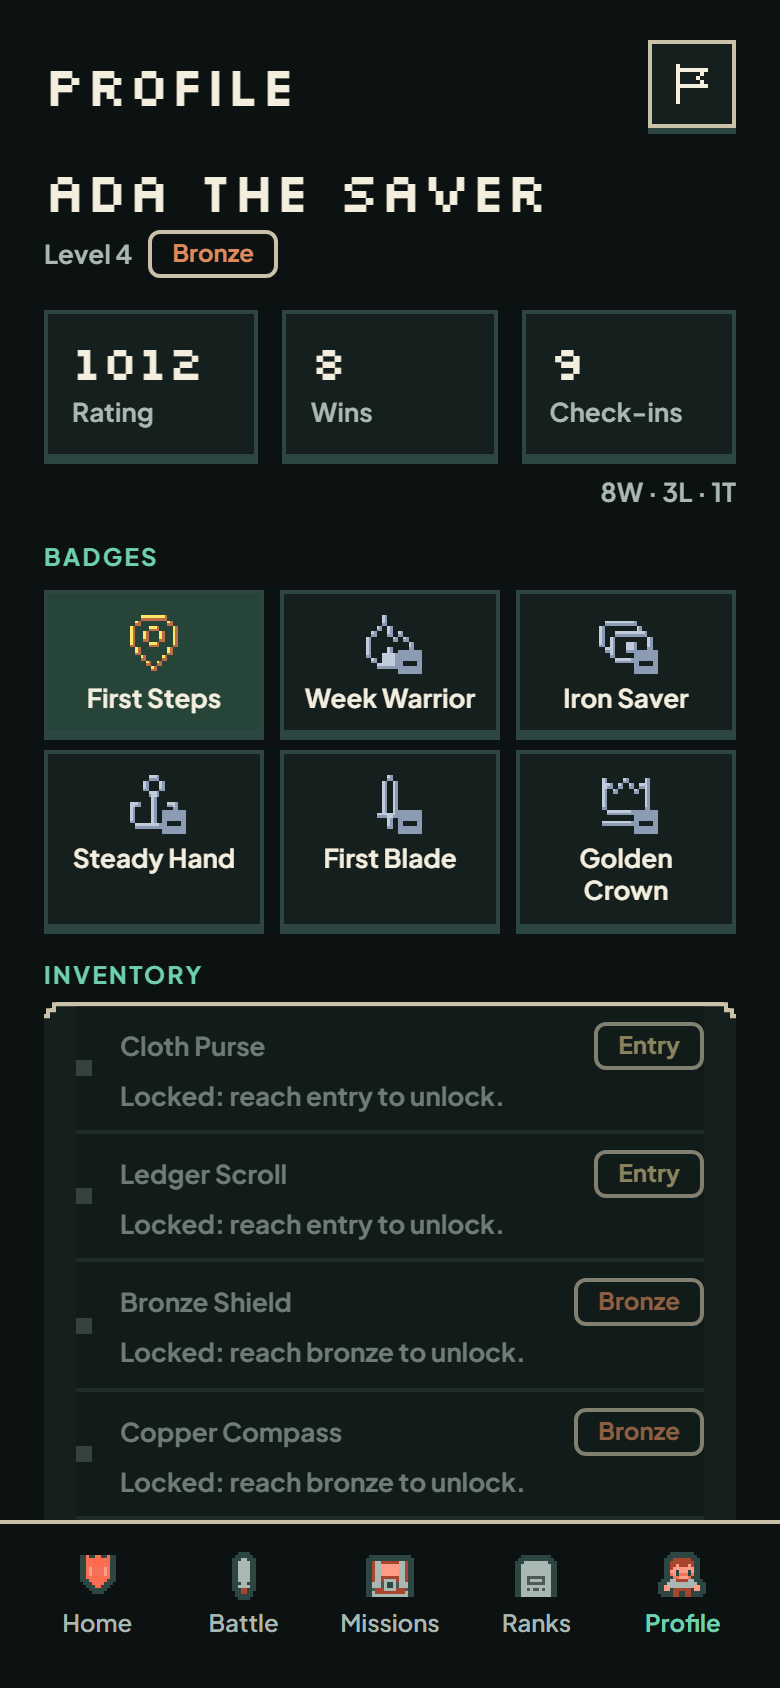
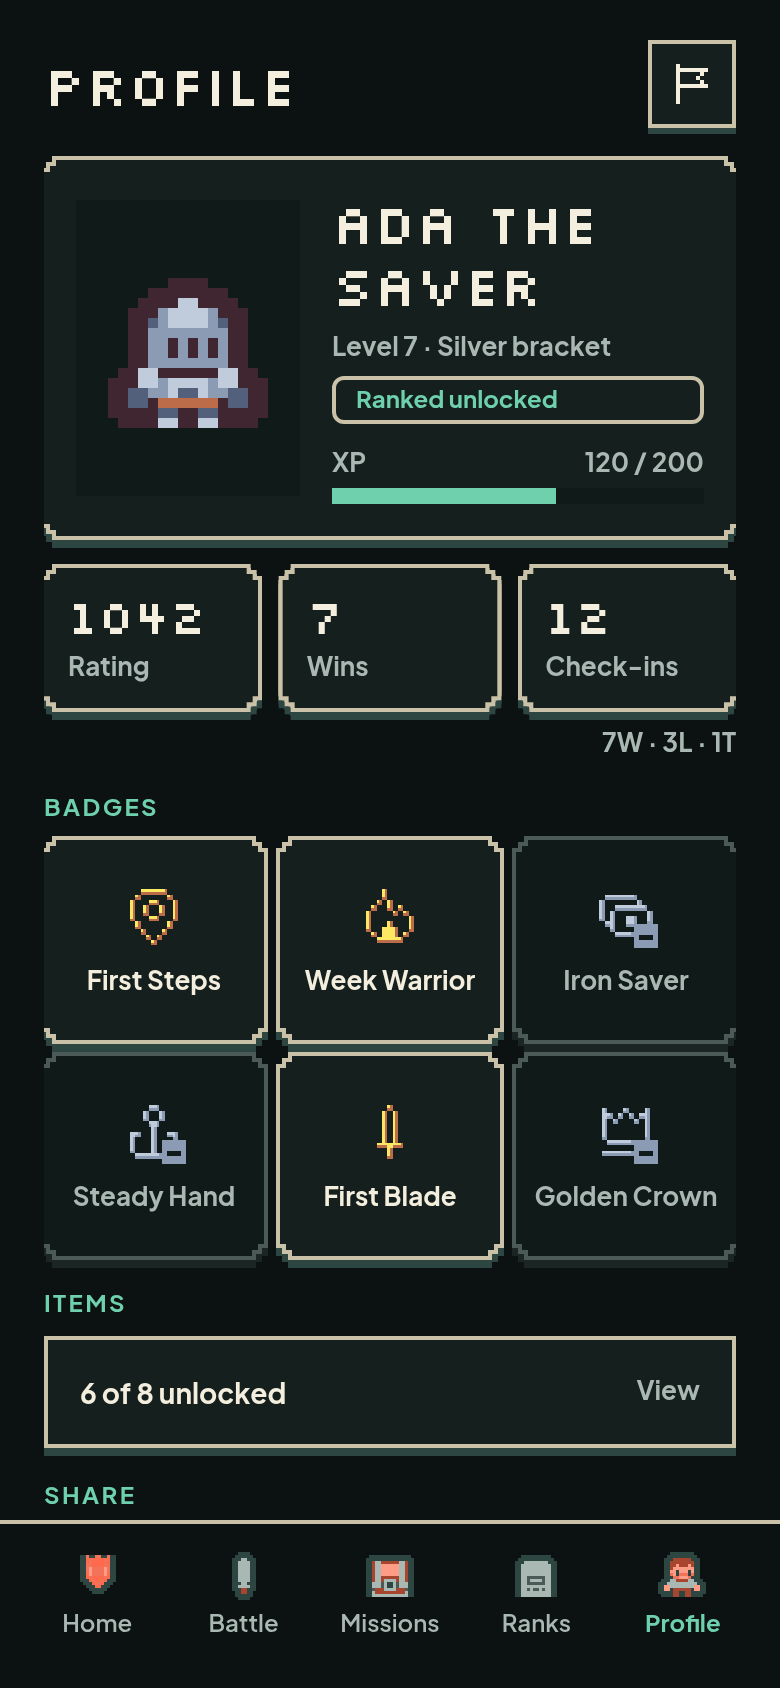
chore: economy remainder renders and verification

diff --git a/docs/superpowers/renders/economy/review/index.html b/docs/superpowers/renders/economy/review/index.html
@@ -55,6 +55,36 @@
 </section>
 
 <section class="screen">
+  <h2>Items</h2>
+  <p class="route">/items — all eight items, locked and unlocked</p>
+  <div class="strip">
+    <figure><figcaption>360</figcaption><img src="current/items@360.png" alt="Items at 360px"></figure>
+    <figure><figcaption>390</figcaption><img src="current/items@390.png" alt="Items at 390px"></figure>
+    <figure><figcaption>430</figcaption><img src="current/items@430.png" alt="Items at 430px"></figure>
+  </div>
+</section>
+
+<section class="screen">
+  <h2>Bracket Climb</h2>
+  <p class="route">/bracket-climb — shown after a check-in crosses a threshold</p>
+  <div class="strip">
+    <figure><figcaption>360</figcaption><img src="current/bracket-climb@360.png" alt="Bracket Climb at 360px"></figure>
+    <figure><figcaption>390</figcaption><img src="current/bracket-climb@390.png" alt="Bracket Climb at 390px"></figure>
+    <figure><figcaption>430</figcaption><img src="current/bracket-climb@430.png" alt="Bracket Climb at 430px"></figure>
+  </div>
+</section>
+
+<section class="screen">
+  <h2>Balance dropped</h2>
+  <p class="route">/withdrawal — shown when a check-in reads lower than the last</p>
+  <div class="strip">
+    <figure><figcaption>360</figcaption><img src="current/withdrawal@360.png" alt="Balance dropped at 360px"></figure>
+    <figure><figcaption>390</figcaption><img src="current/withdrawal@390.png" alt="Balance dropped at 390px"></figure>
+    <figure><figcaption>430</figcaption><img src="current/withdrawal@430.png" alt="Balance dropped at 430px"></figure>
+  </div>
+</section>
+
+<section class="screen">
   <h2>Settings</h2>
   <p class="route">/settings — pushed screen, no bottom nav</p>
   <div class="strip">

diff --git a/docs/superpowers/audits/2026-11-05-ui-gap-audit.md b/docs/superpowers/audits/2026-11-05-ui-gap-audit.md
@@ -520,3 +520,53 @@ The reveal and quiz states were not target-audited: the headless fixture cannot 
 ### Remaining step
 
 The emulated sweep is the agent's evidence. The real-device pass in Nimiq Pay at 360–430px is the user's final sign-off step.
+
+---
+
+## 11. Economy remainder — 2026-11-09
+
+**Branch:** `feat/economy-settings` (continued; stacked on the Settings slice).
+**Verdict:** the Economy remainder is implemented. Items, Bracket Climb and Balance dropped now exist as screens, and Profile is rebuilt around the character card.
+
+### What landed
+
+- **`/items`**: a pushed screen with the handoff's 2-column grid of all eight items, a `6 of 8 unlocked` chip, 16×16 item art at 48px, per-item bracket and state line, and the "Still yours" footer. Item art comes from `assets/items.json` through `ItemArt`; `ledger_scroll` uses the `Ledger Tome` drawing because the app kept its original item name.
+- **`/bracket-climb`**: a celebration screen with the bracket label, the threshold, `+50 XP` when the Bracket Climb mission actually awarded, the unlocked items, and `See my items`.
+- **`/withdrawal`**: the neutral "Your balance went down" screen with last/now balances, a mint "Still yours" card and a coral "Removed" card listing the badges actually revoked.
+- **Profile**: the identity strip is now a character card using the Hero sprite for the current bracket, the level/bracket line, a `Ranked unlocked` chip when eligible, and an XP bar. Stats and badges use stepped `PixelPanel`s, the full inventory list is gone, and an Items shortcut replaces it.
+- **Trigger**: Home routes a check-in with `checkInDestination`. A withdrawal wins over a bracket change; a bracket change below the entry floor goes Home. The result crosses the navigation in a one-shot `sessionStorage` handoff (`checkin-handoff.ts`) with a module cache so React StrictMode's double mount cannot lose it.
+- **Art components**: `CharacterArt` (Hero · Entry/Bronze/Silver/Gold) and `ItemArt` (eight items) render the shipped 16×16 paths at whole multiples.
+- **Focus fix**: a scrollable `.sv-shell__body` is focusable in Chrome; it now shows the 2px mint outline instead of the UA auto ring. This is why `/items` has a scroll-container focus stop at 360/390.
+
+### Verification evidence
+
+| Check | Result |
+|---|---|
+| `npm test` | 217 pass, 0 fail |
+| `npx tsc --noEmit` | clean |
+| `npm run lint` | exit 0, 48 warnings, 0 errors (four new `set-state-in-effect` warnings follow the existing session-read pattern) |
+| `npm run build` | exit 0 |
+| `text-[10px]` / `text-[11px]` | none in `src/**/*.tsx` |
+| Audit 360/390/430 | Profile, Items, Bracket Climb, Withdrawal: `overflowX: 0`, no wide elements, no target <44×44, min font 12px (13px on the celebration screens), reading-order focus, mint outline, no covered stops |
+
+### 360px behaviour
+
+- **Profile:** the 12-character fixture name wraps to two lines inside the character card; the card grows, nothing is truncated.
+- **Items:** two columns hold all eight cards; the `6 of 8 unlocked` chip stays on the header line.
+- **Bracket Climb:** "Bracket Climb" wraps to two lines and `3 NIM` stays on one line (non-breaking space).
+- **Balance dropped:** the title wraps to two lines; the balance row keeps both values and the NIM labels.
+
+### Renders
+
+12 new PNGs in `docs/superpowers/renders/economy/after/` (Profile, Items, Bracket Climb, Withdrawal at 360/390/430), mirrored into `docs/superpowers/renders/economy/review/current/` with new sections in `index.html`. The review copy now covers the whole Economy batch.
+
+### Rulings
+
+- **Hero sprite:** the handoff's Profile uses `Hero · Silver`; the card uses the Hero sprite for the current bracket. No gender field exists in the app, so this is the only defensible choice.
+- **Ledger name:** the app keeps `Ledger Scroll`; the handoff and `assets/items.json` call the drawing `Ledger Tome`. The art is mapped, the name is not renamed.
+- **Withdrawal trigger:** the check-in API flags any lower reading, so the screen is shown for any drop; its Removed card lists only the badges actually revoked instead of promising one. The handoff's copy assumed a bracket/streak drop.
+- **Scroll focus:** the pushed scroll body is keyboard focusable by the browser; the mint outline makes that stop consistent rather than removing a useful way to scroll a screen with no other controls.
+
+### Remaining step
+
+The real-device pass in Nimiq Pay at 360–430px is still the user's final sign-off step.

diff --git a/docs/superpowers/renders/economy/review/NOTES.md b/docs/superpowers/renders/economy/review/NOTES.md
@@ -8,6 +8,9 @@ the custody line”.
 ## Sign-off
 
 - [ ] Profile
+- [ ] Items
+- [ ] Bracket Climb
+- [ ] Balance dropped
 - [ ] Settings
 - [ ] Settings — Disconnect sheet
 - [ ] Settings — Privacy sheet
@@ -16,6 +19,24 @@ the custody line”.
 - [ ] Delete — confirmation sheet
 
 ## Profile — `/profile`
+
+Corrections:
+
+-
+
+## Items — `/items`
+
+Corrections:
+
+-
+
+## Bracket Climb — `/bracket-climb`
+
+Corrections:
+
+-
+
+## Balance dropped — `/withdrawal`
 
 Corrections:
 
@@ -73,4 +94,8 @@ Corrections that apply everywhere (type, spacing, colour, motion, focus):
 - `/settings/delete` wraps its title to two lines at 360px. That is the type floor doing its job; nothing is truncated.
 - The privacy sheet scrolls inside `max-height: 80dvh` at 360px.
 - The privacy-sheet PNG predates a final copy correction: the code now says “emailing the contact in Settings → Help”, not “the app footer”; the layout is unchanged.
+- Profile uses the Hero sprite for the current bracket; the app has no gender field, so one sprite set is the only option.
+- The app keeps the item name "Ledger Scroll"; the handoff drawing is "Ledger Tome", so the art is mapped by hand.
+- Balance dropped is shown for any lower check-in reading. The Removed card lists the badges actually revoked, so it never promises a streak badge that did not exist.
+- Item cards are display-only; the screen's scroll body is keyboard focusable so the list can be scrolled without another control.
 - The real-device pass in Nimiq Pay is still yours to do; these are headless renders.
